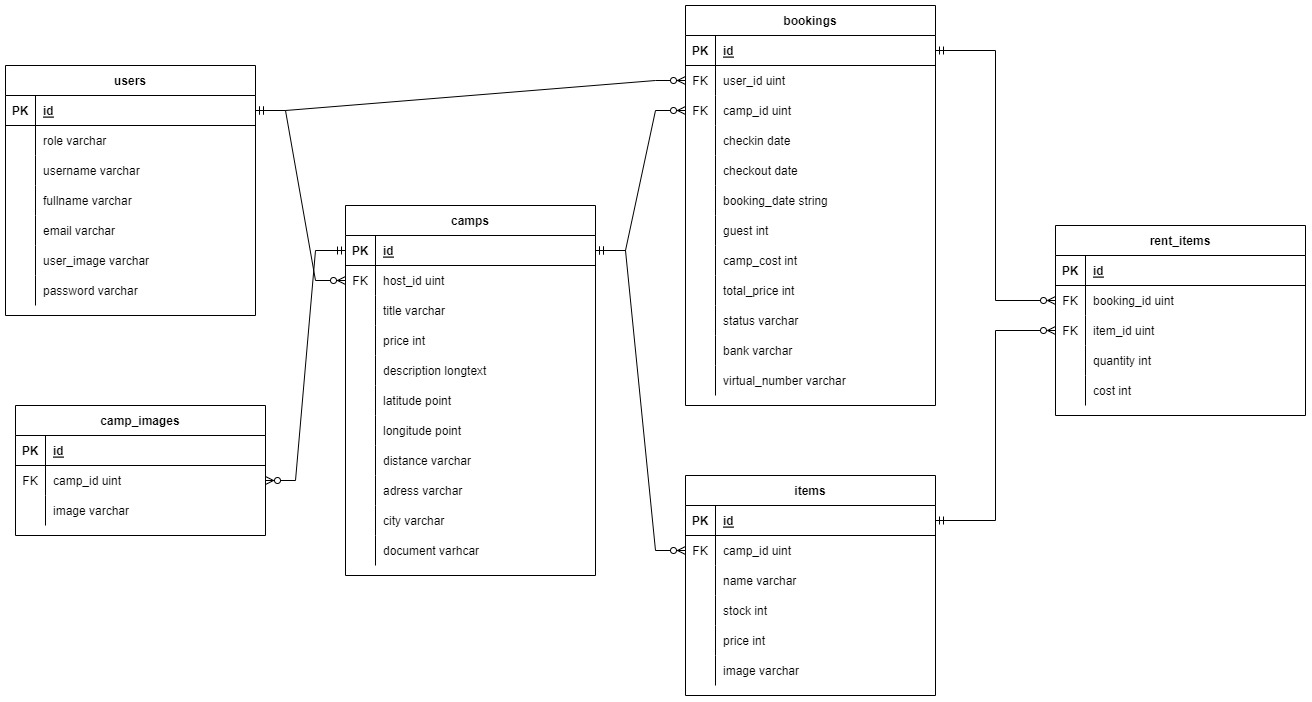
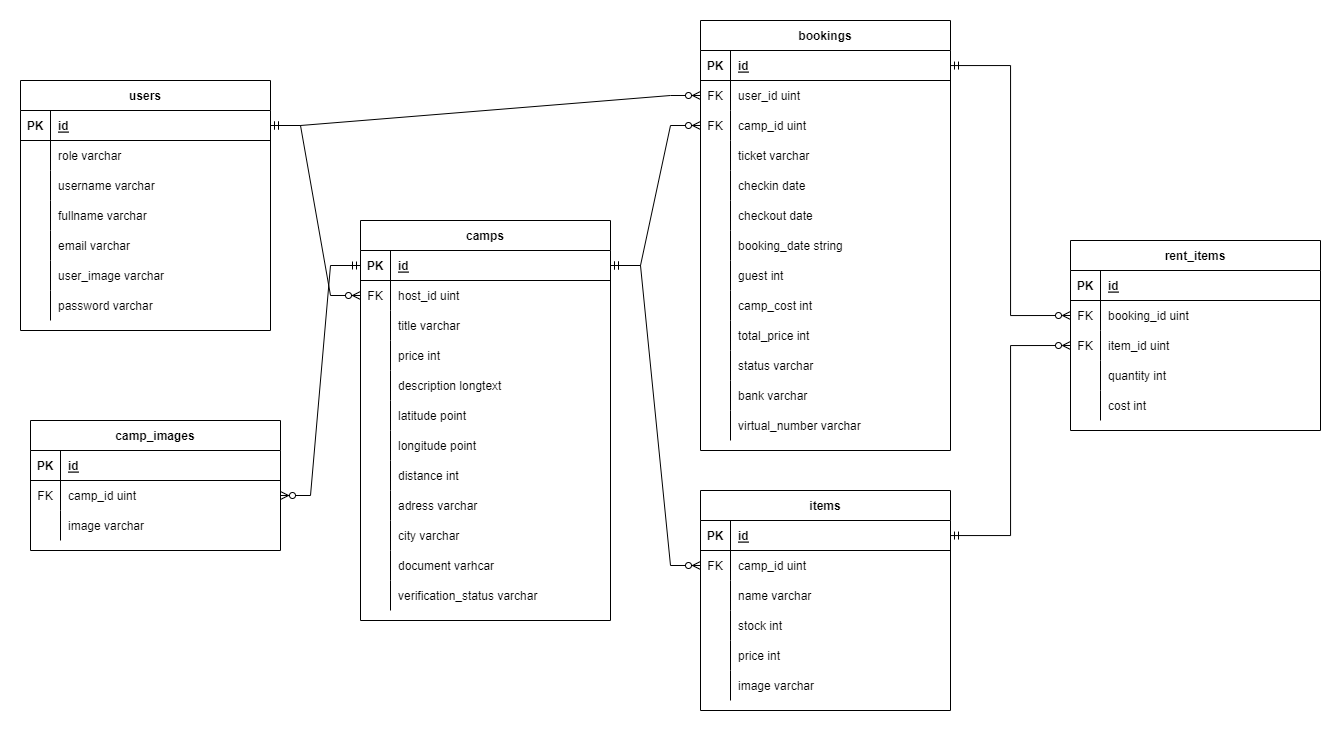
docs: update all informations in readme

diff --git a/README.md b/README.md
@@ -1,40 +1,169 @@
+<div id="top"></div>
+
+<!-- PROJECT LOGO -->
+<br/>
+<div align="center">
+<!--  mengarah ke repo  -->
+  <a href="https://abiasa.site/">
+    <img src="docs/images/logo-with-frame.png" width="365" height="110">
+  </a>
+
+  <p align="center">
+    Final Project Capstone Program Immersive Alterra Academy
+  </p>
+
+</div>
+<br />
+
 # Campyuk App Project
+
 Campyuk is a platform that provides places for people who want to go camping | This project was developed using GO Language based on Clean Architecture.
+<a href="https://abiasa.site/"><h3 style="font-weight:bold">Go to API »</h3></a>
 
-## Tech Stack
+<div>
 
-![unit-test](https://github.com/Capstone-campyuk/campyuk-be/blob/main/docs/tech-stack.jpg)
+<details><summary>👤User</sumarry>
+<p>
+In this feature the user can login and register as a guest (cutomer) or host (camp owner)
 
-## 📘 API Documentation & 🔗 URL
+| Method | Endpoint  | JWT Token | Role  | Function                                          |
+| ------ | --------- | --------- | ----- | ------------------------------------------------- |
+| POST   | /login    | NO        | -     | This is how Guest or Host log in.                 |
+| POST   | /register | NO        | -     | This is how Guest or Host register their account. |
+| GET    | /users    | YES       | guest | Guest obtain their account information.           |
+| PUT    | /users    | YES       | guest | This is how Guest Update their profile.           |
+| DELETE | /users    | YES       | guest | This is how users Deactive their profile.         |
+
+</p>
+</details>
+
+<details><summary>🏕Camp</sumarry>
+<p>
+In this feature, the host can manage the campground, and the admin can confirm the campground submitted by the host.
+
+| Method | Endpoint                  | JWT Token | Role                 | Function                                                                                                                                               |
+| ------ | ------------------------- | --------- | -------------------- | ------------------------------------------------------------------------------------------------------------------------------------------------------ |
+| POST   | /camps                    | YES       | host                 | The process of adding new camps.                                                                                                                       |
+| GET    | /camps?page={page_number} | NO/YES    | non/guest/host/admin | Non user and Guest can see the camps that have been accepted, The Host only can see his own camps, and the Admin only see camps that are still pending |
+| GET    | /camps/{id}               | NO/YES    | non/guest/host/admin | Displaying booking detail by id.                                                                                                                       |
+| PUT    | /camps/{id}               | YES       | host                 | The process of updating information about the camps.                                                                                                   |
+| DELETE | /camps/{id}               | YES       | host                 | The process of deleting the camps.                                                                                                                     |
+| PUT    | /camps/{id}/accept        | YES       | admin                | Accept the camps that proposed by host.                                                                                                                |
+| PUT    | /camps/{id}/decline       | YES       | admin                | Decline the camps that proposed by host.                                                                                                               |
+
+</p>
+</details>
+
+<details><summary>🖼Image</sumarry>
+<p>
+In this feature, the host can manage the pictures in the campground, such as adding and deleting pictures.
+
+| Method | Endpoint     | JWT Token | Role | Function                                            |
+| ------ | ------------ | --------- | ---- | --------------------------------------------------- |
+| POST   | /images      | YES       | host | The process of adding pictures to the campground.   |
+| DELETE | /images/{id} | YES       | host | The process of deleting pictures to the campground. |
+
+</p>
+</details>
+
+<details><summary>⛺Item</sumarry>
+<p>
+In this feature, the host can manage the items in the campground, such as adding and deleting items.
+
+| Method | Endpoint    | JWT Token | Role | Function                                          |
+| ------ | ----------- | --------- | ---- | ------------------------------------------------- |
+| POST   | /items      | YES       | host | Melakukan proses menambah item pada camp ground.  |
+| DELETE | /items/{id} | YES       | host | Melakukan proses menghapus item pada camp ground. |
+
+</p>
+</details>
+
+<details><summary>🎫Booking</sumarry>
+<p>
+In this feature, the guest can view their booking list. Then, the host can view the booking list in their camp. The guest can cancel the transaction if they haven't made the payment. The host can accept and cancel the transaction.
+
+| Method | Endpoint                 | JWT Token | Role       | Function                                                                                                                                                                 |
+| ------ | ------------------------ | --------- | ---------- | ------------------------------------------------------------------------------------------------------------------------------------------------------------------------ |
+| POST   | /bookings                | YES       | guest      | The process of booking a camp.                                                                                                                                           |
+| GET    | /bookings                | YES       | guest/host | Displaying the list of bookings that belong to the currently logged-in guest. For the host role, it only displays the booking list of the currently logged in host camp. |
+| GET    | /bookings/{id}           | YES       | guest/host | Displaying the booking details of the currently logged in user.                                                                                                          |
+| PUT    | /bookings/{id}/accept    | YES       | host       | The process of accepting a booking transaction, which changes the booking status to "ACCEPTED."                                                                          |
+| PUT    | /bookings/{id}/cancel    | YES       | guest/host | The process of cancelling a booking transaction for a user who hasn't made the payment.                                                                                  |
+| POST   | /bookings/callback       | NO        | -          | Retrieving transaction data from Midtrans.                                                                                                                               |
+| GET    | /bookings/{id}/oauth     | NO        | -          | The process of logging in using the Google API for authentication.                                                                                                       |
+| GET    | /bookings/oauth/callback | NO        | -          | Getting the code provided by the Google API after the authentication process and creating an event in the calendar of the logged in user.                                |
+
+</p>
+</details>
+
+</div>
+
+<br/>
+
+# API Documentation
 
 [![Swagger](https://img.shields.io/badge/-Swagger-%23Clojure?style=for-the-badge&logo=swagger&logoColor=white)](https://app.swaggerhub.com/apis-docs/GRIFFINHENRY07_1/campyuk/1.0.0) [![Postman Collection](https://img.shields.io/badge/Postman-FF6C37?style=for-the-badge&logo=postman&logoColor=white)](https://www.postman.com/blue-rocket-532366/workspace/task-alta/collection/19389812-c3aa7b0b-cff6-4edf-abfa-e53778dbb602?action=share&creator=19389812)
 
-https://abiasa.site/
+<br/>
 
-## ERD
+# Tech Stack
+
+<div align="center">
+    <img src="docs/images/tech-stack.jpg">
+</div>
+
+<br/>
+
+# Run Locally
+
+1. Clone the project
+
+    ```bash
+    $ git clone https://github.com/Capstone-campyuk/campyuk-be.git
+    ```
+
+2. Create new database
+
+3. Go to project directory
+
+    ```bash
+    $ cd campyuk-be
+    ```
+
+4. Dont forget to activate the credential for third party api like google oauth2, cloudinary, and midtrans
+5. Create local.env using local.env.example format and fill in all value
+6. Download all packages and dependencies
+    ```bash
+    $ go mod tidy
+    ```
+7. Run the program
+    ```bash
+    $ go run .
+    ```
+8. Enjoy
+
+<br/>
+
+# ERD
 
 ![erd drawio](https://user-images.githubusercontent.com/119381998/218243585-ab437b99-8b89-4a24-bd2b-10f4c9844036.png)
 
-## Unit Test
+<br/>
+
+# Unit Test
 
 ```
 $ sh test.sh
 ```
 
-![unit-test](https://github.com/Capstone-campyuk/campyuk-be/blob/main/docs/test_overall_2023-02-10_21-44-51.png)
+<div align="center">
+    <img src="docs/test_overall_2023-02-10_21-44-51.png" >
+</div>
 
-## Run Locally
-Clone the project
-```
-$ https://github.com/Capstone-campyuk/campyuk-be.git
-```
+<br/>
 
-Go to project directory
-```
-$ cd campyuk-be
-```
+# Authors
 
-## Authors
 [![GitHub](https://img.shields.io/badge/helmi-%23121011.svg?style=for-the-badge&logo=github&logoColor=red)](https://github.com/helmimuzkr)
 
 [![GitHub](https://img.shields.io/badge/griffin-%23121011.svg?style=for-the-badge&logo=github&logoColor=blue)](https://github.com/kgriffinh)
